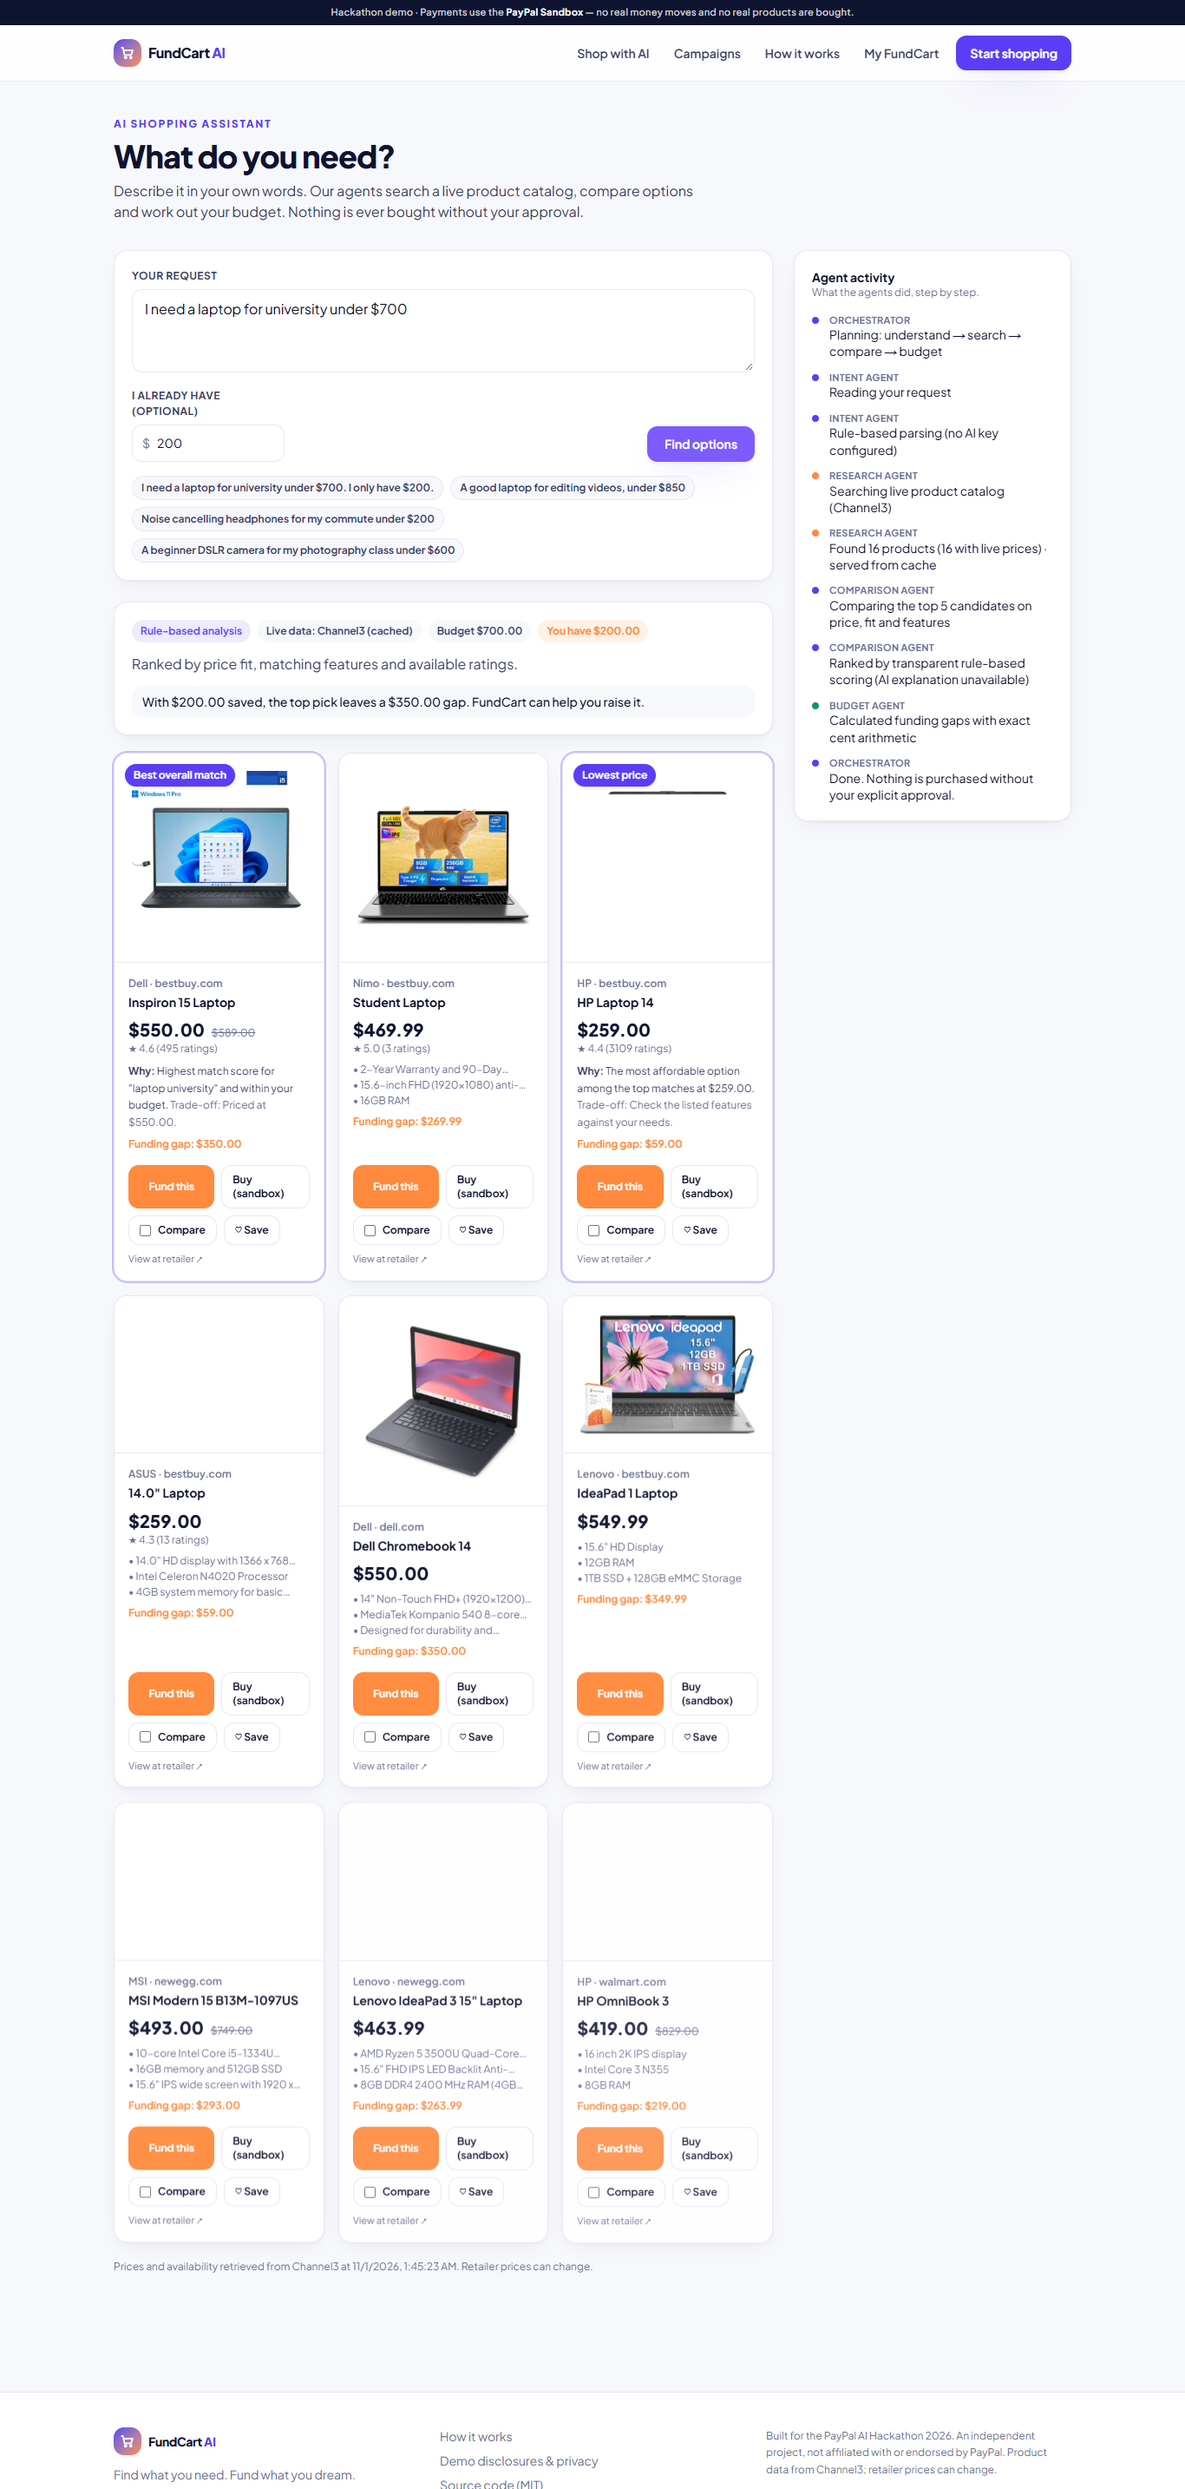
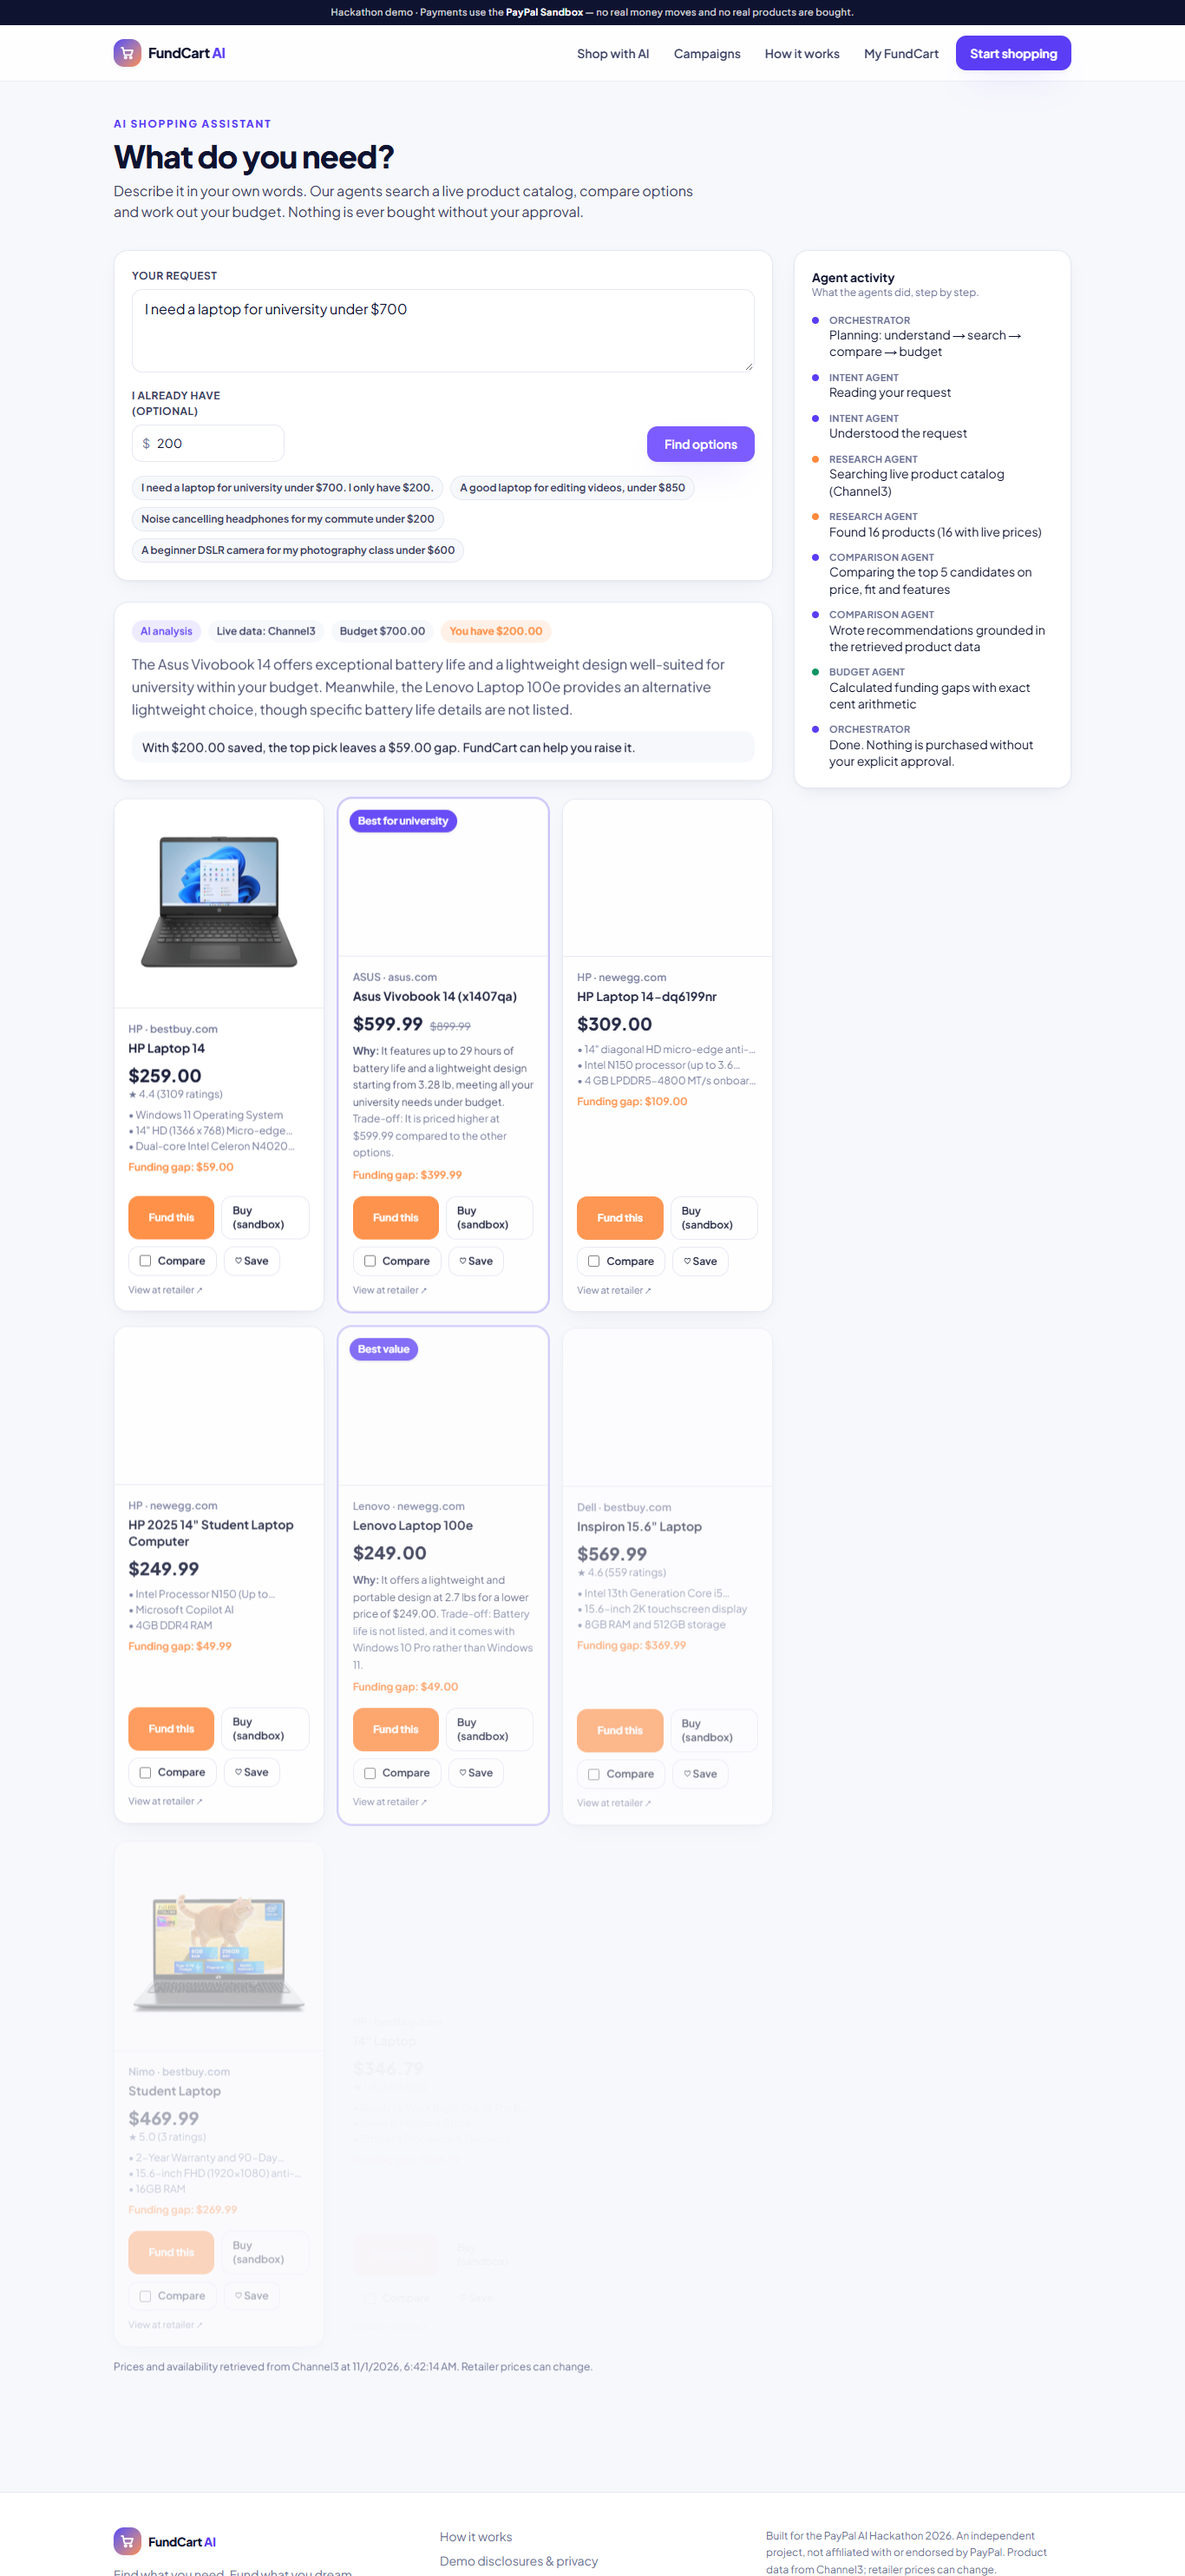
Docs: Gemini + webhook verification evidence; normalize line endings to LF

diff --git a/docs/PLATFORM_ACCESS.md b/docs/PLATFORM_ACCESS.md
@@ -7,14 +7,14 @@ This file never contains passwords, cookies, API keys, license keys or redemptio
 
 | Platform | Signed in | Account ready | Credits / trial | API access | Blockers | Next action |
 |---|---|---|---|---|---|---|
-| **PayPal Developer** | Yes | Yes, Sandbox mode | n/a (Sandbox is free) | **Verified end to end:** REST app "FundCart AI"; real Sandbox contribution + purchase captured and confirmed via the PayPal API; webhook registered for the production URL | Webhook deliveries not yet observed | Recheck webhooks |
+| **PayPal Developer** | Yes | Yes, Sandbox mode | n/a (Sandbox is free) | **Verified end to end:** REST app "FundCart AI"; real Sandbox contribution + purchase captured and confirmed via the PayPal API; **verified webhook deliveries received in production** | — | — |
 | PayPal Sandbox accounts | — | 4 accounts: campaign recipient (business, new), demo store (business, app owner), supporter buyer (personal, new), creator buyer (personal) | Sandbox balances | — | — | Test passwords set via the dashboard and stored only in `.env.local` |
 | Devpost (PayPal AI Hackathon) | Yes | Registered (Edit/Create project visible) | n/a | n/a | — | Create the project draft at the end |
 | GitHub (kmt9967) | Yes (gh CLI) | Yes | n/a | Yes | — | Repo created: github.com/kmt9967/fundcart-ai |
 | Vercel (team Teqprotech, **Hobby**) | Yes (web) | Project `fundcart-ai`, auto-deploys from GitHub | Free Hobby | — | — | Live: https://fundcart-ai.vercel.app |
 | **Channel3** | Yes | Yes | **Verified: 21,000 bonus credits, plus 1,000 free per month (0 used at check)** | **Verified:** a live `/v1/search` returns products | — | Used in the app |
 | Supabase (kmt9967's Org, Free) | Yes | New project `fundcart-ai` (us-west-2, Nano, free) | Free plan | Verified (REST 200, migrations applied) | Free projects pause after 7 days idle | Daily Vercel cron keepalive |
-| Google AI Studio (Gemini) | Google session yes | **Terms not yet accepted** | Free tier | — | Accepting Google's terms is Talal's action | Talal clicks Continue; then create the API key |
+| Google AI Studio (Gemini) | Yes | Terms accepted by Talal | **Free tier** (no billing set up) | **Verified:** key `FundCart AI app` (stored only in `.env.local` and Vercel); live production calls succeed | `gemini-2.5-flash` is closed to new keys and the flash models sometimes return 503, so the app falls back along a model chain | — |
 | Render | Login page shown | ? | Reported $50 code. **Unverified** | — | Not signed in | Optional (Render prize) |
 | KERNEL | ? | Reported account created | $50 sponsor credits **unverified** | — | — | Not needed for the core build |
 | AG Studio / AG Grid | — | Eval licence reported (expires 2026-12-15) | Unverified | — | — | Using **AG Grid Community (MIT)**; no licence key needed |

diff --git a/docs/TEST_EVIDENCE.md b/docs/TEST_EVIDENCE.md
@@ -29,22 +29,27 @@ Both captures were re-fetched from PayPal using `GET /v2/payments/captures/{id}`
 | localhost | Contribution (supporter → campaign recipient) | `9D1088330R6882635` | COMPLETED | 350.00 USD | campaign recipient business account |
 | localhost | Separate purchase (creator → demo store) | `8VY99001363273819` | COMPLETED | 550.00 USD | demo store business account |
 | production | Contribution | `06M04038NB948573P` | COMPLETED (recorded in DB) | 350.00 USD | campaign recipient |
+| production (Gemini on, 2026-11-01 01:43Z) | Contribution | capture `6KV001606B701045T` | COMPLETED | 59.00 USD | campaign recipient |
+| production (Gemini on) | Separate purchase | order `49X6413676305223G` | COMPLETED | — | demo store |
 
 Database state after the localhost journey:
 - The campaign moved `active` → `goal_reached` → `purchased`.
 - `contributions` has exactly one row (35000 cents, capture `9D1088330R6882635`).
 - `payment_orders` has two COMPLETED orders with their capture ids.
 
+Production run with Gemini on (`E2E_BASE_URL=https://fundcart-ai.vercel.app`, 5/5 passed):
+- The assistant response carried `aiUsed: true`; the campaign draft carried `usedModel: true`.
+- PayPal delivered `CHECKOUT.ORDER.APPROVED` and `PAYMENT.CAPTURE.COMPLETED` webhooks. Each was verified with `verify-webhook-signature` and stored in `payment_events` (source `webhook`).
+- The campaign `help-maya-get-her-cs-degree-laptop-dc6b1c` still holds exactly one contribution (5900 cents), so the webhooks and the browser capture did not double-count.
+
 ## Screenshots (`docs/evidence/`)
 
 1. `01-assistant-results.png`: AI assistant with live Channel3 laptops, agent timeline and funding gaps.
-2. `02-campaign-builder.png`: the builder with the server-computed goal ($550.00 − $200.00 = $350.00).
+2. `02-campaign-builder.png`: the builder with the server-computed goal (item price − money already saved) and the Gemini-drafted copy.
 3. `03-contribution-verified.png`: the supporter's verified contribution with the PayPal order and capture ids.
 4. `04-dashboard-goal-reached.png`: the creator dashboard (AG Grid ledger) with purchase approval unlocked.
 5. `05-dashboard-history.png`: the audit history showing `order.captured`, `campaign.goal_reached` and the purchase.
 
 ## Not yet verified
 
-- **Webhook deliveries.** A webhook is registered for the production URL, but no Sandbox webhook events had been delivered when last checked.
-- **Gemini-powered paths.** No API key yet; the runs above used the labelled rule-based fallbacks.
 - **Refund handling.** The code path exists but has not been exercised.

diff --git a/docs/SPONSOR_INTEGRATIONS.md b/docs/SPONSOR_INTEGRATIONS.md
@@ -1,10 +1,10 @@
 # Sponsor integrations (honest status)
 
-Last updated: 2026-11-01
+Last updated: 2026-11-01 (after the Gemini and webhook verification)
 
 | Sponsor | Status | What exactly |
 |---|---|---|
-| **PayPal** (host) | Implemented; Sandbox API verified (OAuth + order create). Full browser payment E2E: **pending Sandbox test accounts** | Orders v2 create / capture / get, refunds API wrapper, webhook verification, JS SDK Smart Buttons |
+| **PayPal** (host) | **Implemented and tested end to end**: real Sandbox contributions and purchases captured via Smart Buttons in Playwright, confirmed via the Orders API; verified webhooks received in production | Orders v2 create / capture / get, refunds API wrapper, webhook verification, JS SDK Smart Buttons |
 | **Channel3** | **Implemented and tested** (live searches from localhost and production) | `/v1/search` with price / availability / condition filters; free `/v1/products/{id}` detail lookup; 6 h cache |
 | **AG Grid** | **Implemented** (Community edition, MIT) | Payment ledger grid in the creator dashboard (sorting, filtering, pagination, custom formatters) |
 | Render | Available but unused | The $50 code redemption is unverified; the app is deployed on Vercel |
@@ -16,6 +16,6 @@ Last updated: 2026-11-01
 | Postman | Available but unused | — |
 | Zapier | Available but unused | — |
 | Supabase (not a sponsor) | Implemented | Postgres database |
-| Google Gemini (AI) | Implemented; **key pending** (Google AI Studio terms must be accepted by the account owner) | Intent, explanations, campaign copy; deterministic fallback |
+| Google Gemini (AI) | **Implemented and verified in production** (free-tier key; `aiUsed: true` on live requests) | Intent, explanations, campaign copy; deterministic fallback |
 
 We claim sponsor-prize eligibility only for tools that are actually used in the running app: **Channel3** and **AG Grid**.

diff --git a/docs/PROGRESS.md b/docs/PROGRESS.md
@@ -15,11 +15,13 @@
 - E2E smoke 4/4 passing locally (pages, streaming assistant with real products, tampered-request rejection, mobile overflow).
 - Full journey Playwright spec written (needs sandbox buyer creds).
 
-**Blocked (needs Talal)**
-- PayPal developer dashboard re-login, needed to create the Sandbox recipient and buyer accounts and the webhook.
-- Google AI Studio terms acceptance (Gemini key).
+- Sandbox accounts (recipient, store, two buyers) created; payees configured.
+- PayPal button reload bug found by E2E and fixed (memoized SDK options).
+- Full journey E2E with real Sandbox payments passes on localhost and production (5/5).
+- Gemini key created (free tier) and verified in production (`aiUsed: true`); model chain fallback added because `gemini-2.5-flash` is closed to new keys.
+- Webhook deliveries verified in production (approved + capture completed, signature-verified, no double counting).
 
 **Next**
-- Sandbox E2E with Playwright.
-- Deployment.
-- Video, docs, Devpost draft.
+- Remaining docs (DEPLOYMENT, DEMO_SCRIPT, SUBMISSION_CHECKLIST, DEVPOST draft), README links.
+- Demo video and YouTube upload.
+- Devpost draft (never submit).

diff --git a/docs/EXECUTION_PLAN.md b/docs/EXECUTION_PLAN.md
@@ -29,7 +29,7 @@ Deadline: **Thu Nov 12, 2026, 12:00 PM PT**. Planning and build started on 2026-
 4. ✅ Unit tests; public GitHub repo (MIT).
 5. ⏳ Vercel deployment (blocked on 2FA re-auth by Talal).
 6. ⏳ Gemini key (blocked on Talal accepting the AI Studio terms).
-7. ⏳ Sandbox recipient and buyer accounts and the webhook (blocked on PayPal dashboard re-login).
+7. ✅ Sandbox recipient and buyer accounts and the webhook (deliveries verified in production).
 8. Browser end-to-end with real Sandbox payments (Playwright), on localhost and then on the deployed URL.
 9. Docs, screenshots, demo video (LockSmith pipeline), YouTube upload.
 10. Devpost draft (saved, **not submitted**).

diff --git a/docs/AI_AGENTS.md b/docs/AI_AGENTS.md
@@ -21,5 +21,5 @@ The agents live in `src/lib/ai/agents.ts` and are orchestrated by `/api/assistan
 
 ## Model and fallback
 
-- **Model:** Gemini (`GEMINI_MODEL`, default `gemini-2.5-flash`) via the Google AI Studio free tier, called server-side.
+- **Model:** Gemini (`GEMINI_MODEL`, a comma-separated chain, default `gemini-flash-latest,gemini-flash-lite-latest`; the next model is tried on 404/429/5xx/timeouts) via the Google AI Studio free tier, called server-side.
 - **Fallback:** if the key is absent or a call fails, each agent falls back to deterministic logic. The UI says so ("Rule-based analysis", "Template draft").
